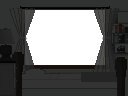
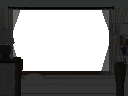
Increase the size of the window.

diff --git a/src/stages/dream.rb b/src/stages/dream.rb
@@ -27,8 +27,8 @@ define_stage :dream do
 
   curtain_up do |*args|
 
-    # person = create_actor :bedroom_covers, x:305, y:265, layer: 11
-    # cat    = create_actor :bedroom_cat, x:520, y:345, layer: 11, action: :idle
+    person = create_actor :bedroom_covers, x:305, y:287, layer: 11
+    cat    = create_actor :bedroom_cat, x:520, y:367, layer: 11, action: :idle
     bg     = create_actor :bedroom_background_night, x:320, y:240, layer: 10
 
     moon   = create_actor :moon, x:160, y:80, layer: 2
@@ -119,11 +119,11 @@ define_stage :dream do
     end
 
 
-    timer_manager.add_timer 'rainbow_intro', 1000 do # #rainbow_intro_t do
+    timer_manager.add_timer 'rainbow_intro', rainbow_intro_t do
       timer_manager.remove_timer 'rainbow_intro'
 
-      # behavior_factory.add_behavior galaxy_blank, :fading
-      # galaxy_blank.emit :fade_out, galaxy_fade_time
+      behavior_factory.add_behavior galaxy_blank, :fading
+      galaxy_blank.emit :fade_out, galaxy_fade_time
 
       butterfly = create_actor :butterfly, x:0, y:280, layer: 1, rotation: 0
       tween_manager.tween_properties butterfly, {x: 550, y:160}, rainbow_line_t, Tween::Sine::InOut

diff --git a/src/stages/bedroom_sitting.rb b/src/stages/bedroom_sitting.rb
@@ -8,8 +8,8 @@ define_stage :bedroom_sitting do
     create_actor :moon, x:160, y:80, layer: 2
 
     bedroom = create_actor :bedroom_background, x:320, y:240, layer: 10
-    person = create_actor :bedroom_sitting, x:305, y:265, layer: 11, action: :idle
-    cat = create_actor :bedroom_cat, x:520, y:345, layer: 11, action: :idle
+    person = create_actor :bedroom_sitting, x:305, y:287, layer: 11, action: :idle
+    cat = create_actor :bedroom_cat, x:520, y:367, layer: 11, action: :idle
 
     # idle breathe is 5 frames
     # two loops of breathing, then yawn
@@ -55,7 +55,7 @@ define_stage :bedroom_sitting do
     timer_manager.add_timer 'lay_in_bed', 34000 do
       timer_manager.remove_timer 'lay_in_bed'
       person.remove
-      create_actor :bedroom_covers, x:305, y:265, layer: 11
+      create_actor :bedroom_covers, x:305, y:287, layer: 11
     end
 
 
